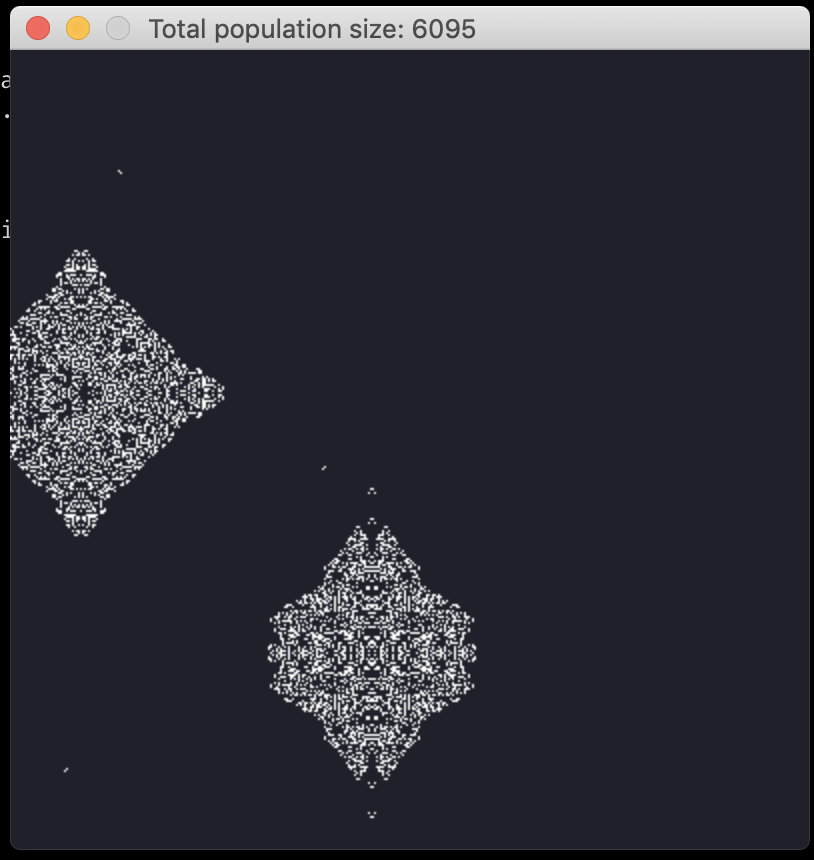
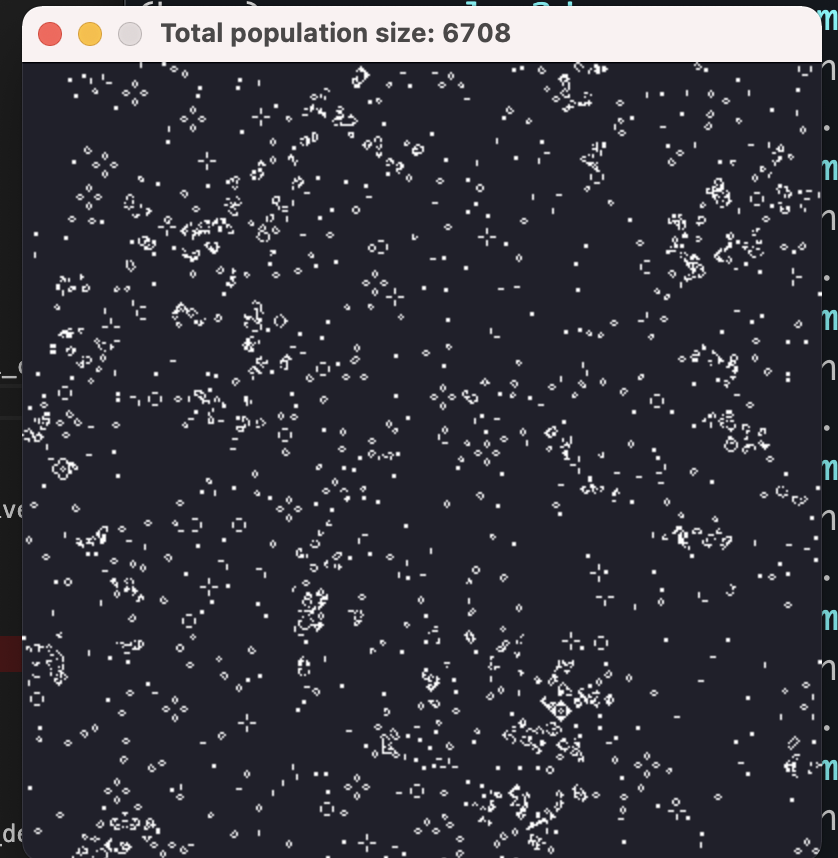
fix: whoops. I made a small error in the rebirth rule.

diff --git a/main.py b/main.py
@@ -14,9 +14,9 @@ def game_of_life_tick(board):
     ])
 
     neighbours = signal.convolve2d(board, filter, 'same')
-    return np.where(
-        ((neighbours == 2) | (neighbours == 3) & (board == 1)) |
-        ((neighbours == 2) & (board == 0)),
+    return np.where(np.logical_or(
+        np.logical_and(np.logical_or(neighbours == 2, neighbours == 3), board == 1),
+        np.logical_and(neighbours == 3, board == 0)),
         1, 0)
 
 
@@ -37,7 +37,7 @@ def render_grid(screen, board, live_cell_colour):
 
 
 grid_size = 400
-chance_of_death = (grid_size * 2) - 100
+chance_of_death = 9
 live_cell_colour = [32, 32, 42]
 dead_cell_colour = [255, 255, 255]
 target_fps = 60
